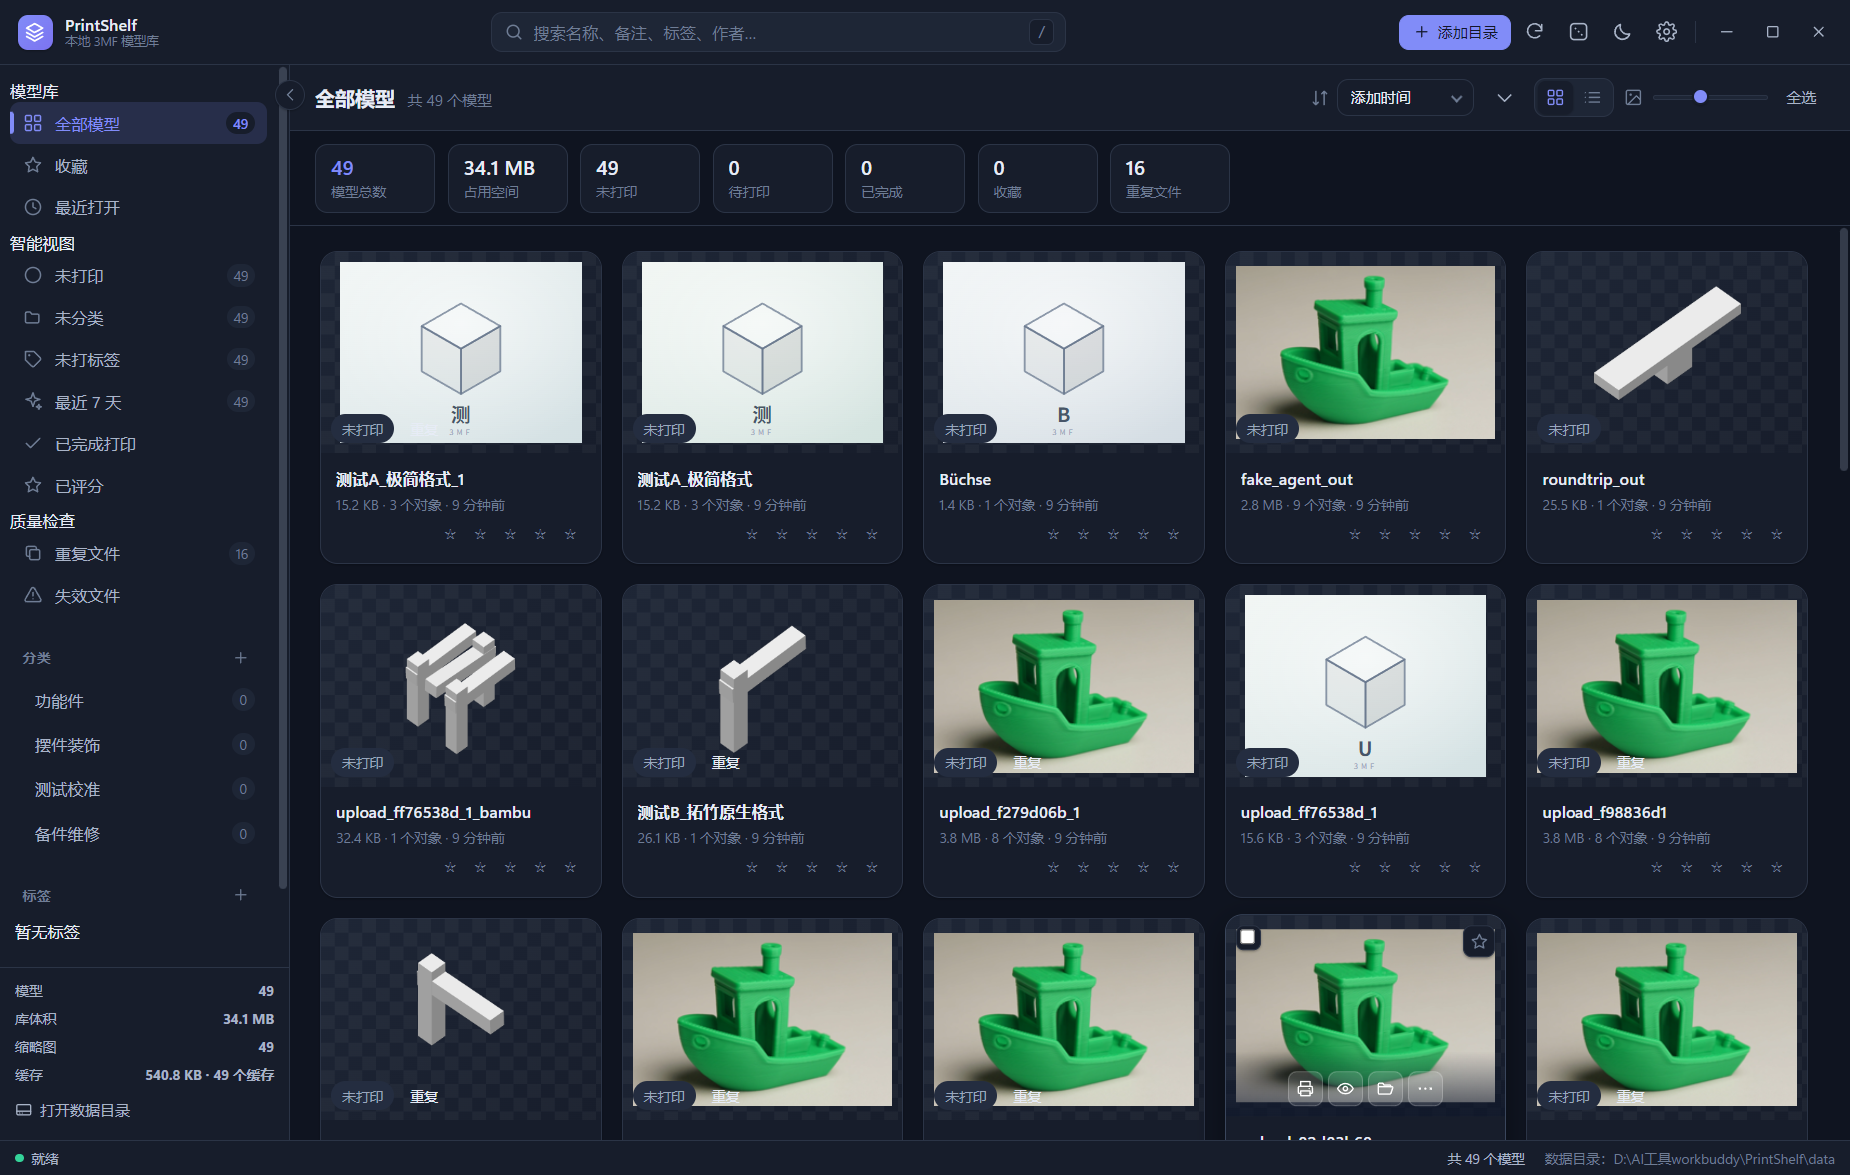
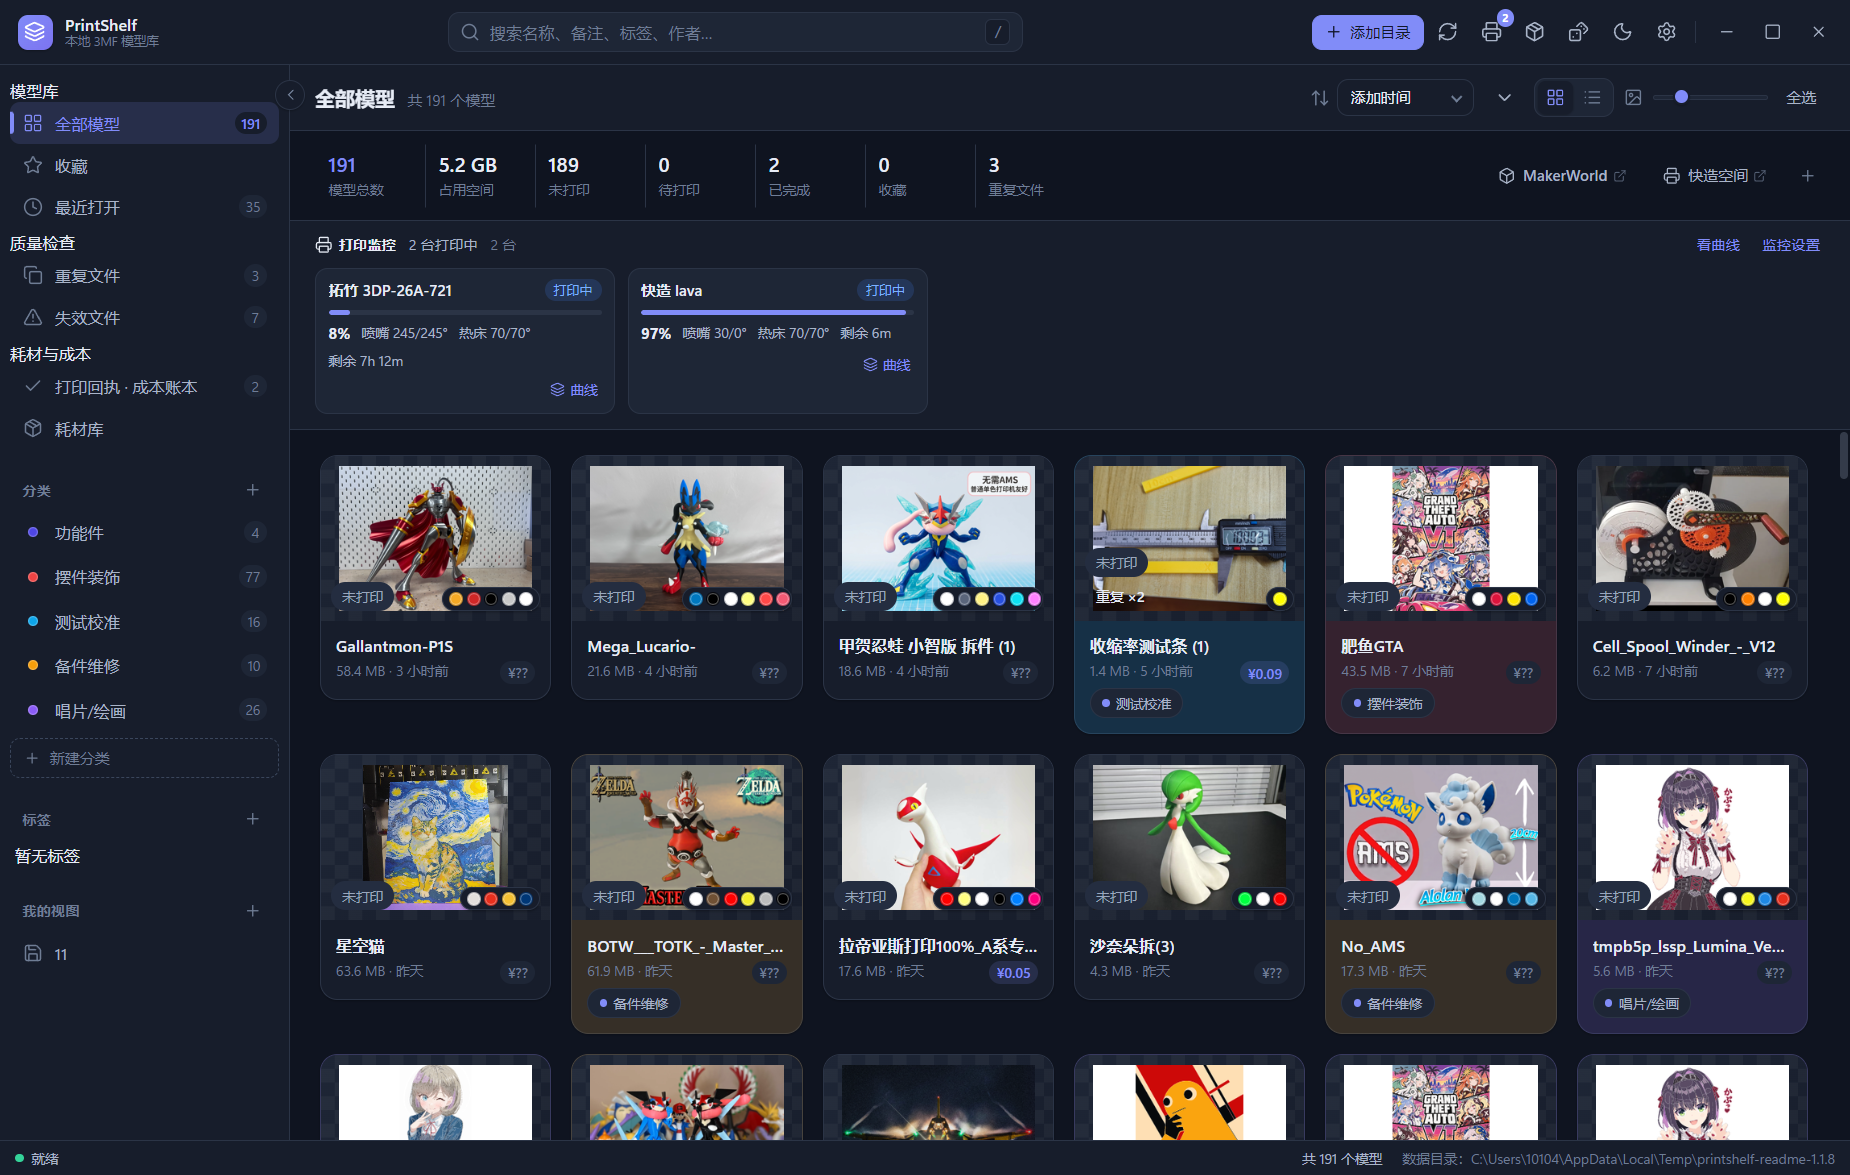
docs: 更新 1.1.8 README 截图与更新说明

diff --git a/README.md b/README.md
@@ -8,6 +8,15 @@
 
 ![主界面](docs/screenshots/00-主界面.png)
 ![深色主题](docs/screenshots/00-主界面-深色.png)
+![色板悬停占比](docs/screenshots/00-主界面-色板占比.png)
+
+## 1.1.8 更新
+
+- 卡片更清爽：不显示五星评分和“xx 个对象”，信息行支持换行显示完整内容。
+- 色板悬停可看每个颜色的占比；有切片克数按克数算，没有则按对象三角面数估算。
+- MakerWorld 链接默认自动跳国内站；3MF 描述里没写链接的，也会用 `DesignModelId` 反查作品页。
+- 首次启动自带 3 条通用耗材及图片，同名耗材不会重复添加。
+- 修复开发版任务栏图标；发布包排除调试用 `PrintShelf-dev.exe`。
 
 ---
 
@@ -44,7 +53,7 @@ npm start
 - **一键打开切片软件**：Bambu Studio、OrcaSlicer、快造 Orca 都可以；也可以每次换一个。
 - **重复文件不刷屏**：内容相同的模型只显示一张卡，点进详情再切换副本；重复视图里可以「一键清除」，每组留一个，其余进回收站。
 - **来源链接自动认出来**：MakerWorld 等网页链接会显示在卡片上，有链接的地球按钮是绿色；3MF 描述里没写链接时，会用项目里的 `DesignModelId` 反查作品页。点开 MakerWorld 链接默认自动跳国内站 `makerworld.com.cn`。
-- **能记住打印状态**：标已打印、记打印次数、写备注、打星评分，下次打开还在。
+- **能记住打印状态**：标已打印、记打印次数、写备注、在详情里打星评分，下次打开还在。
 - **能算大概成本**：首次启动自带 3 条通用耗材（遇果PETG / R3D透明 / 大简PETGHF）和图片，已有同名耗材不会重复添加；也可以手动加耗材、设默认耗材，按模型重量估算价格。耗材图片直接拖 png/jpg 进来，导入时可以先裁切、改大小。卡片右下角色板鼠标移上去会展开各颜色占比；没有切片克数时按对象三角面数估算。
 - **打印完自动记账**：回执按「几月几日 时:分 打印完成 / 打印失败」显示，机器、耗时、用料、成本都能回看。会自动关联到模型库里的模型——同一个模型分几次打印、名字后面多了 `_plate_2` 或 `(3)` 也认得出来；连错了点「更换关联」自己改。
 - **设备扫描与管理**：发现/添加打印机，单台移除、批量移除失效设备、一键整理设备列表。
